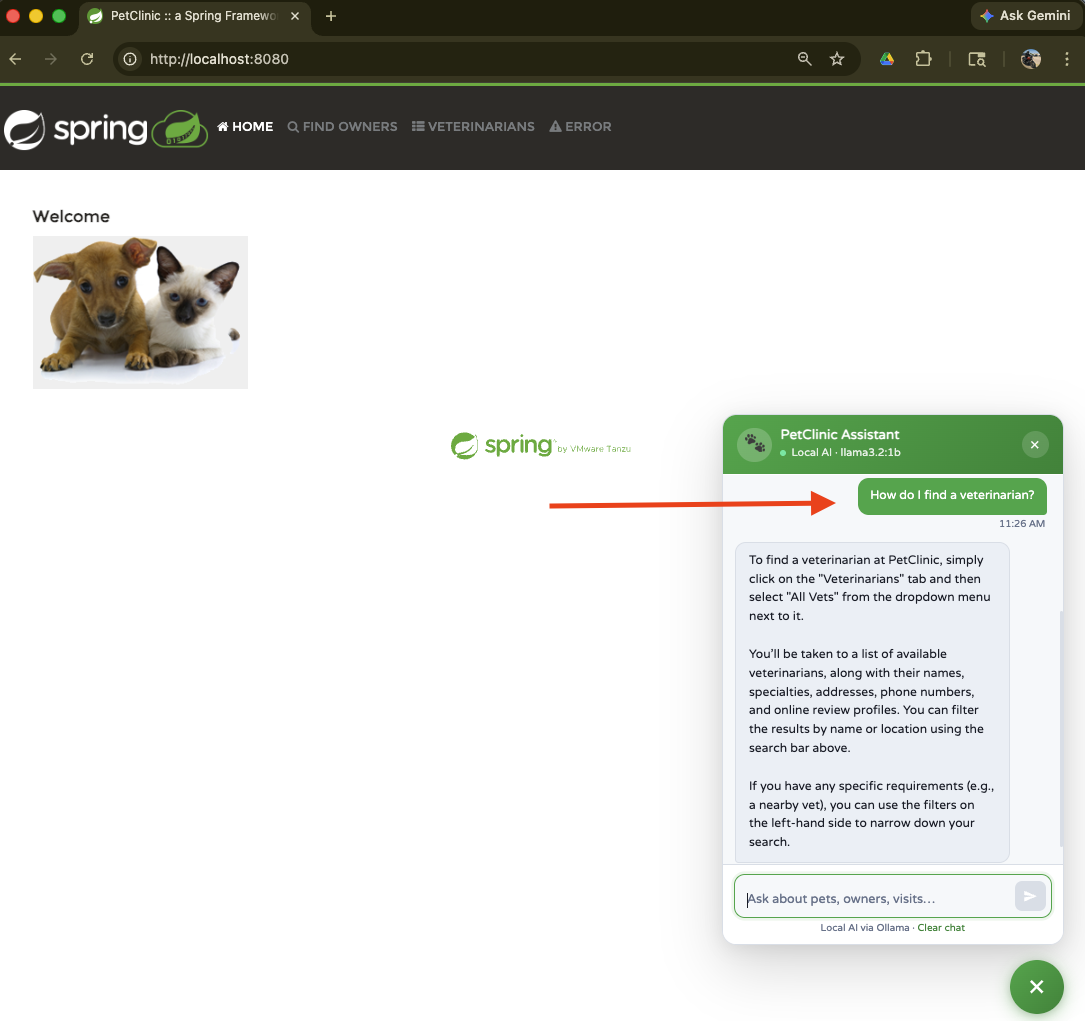
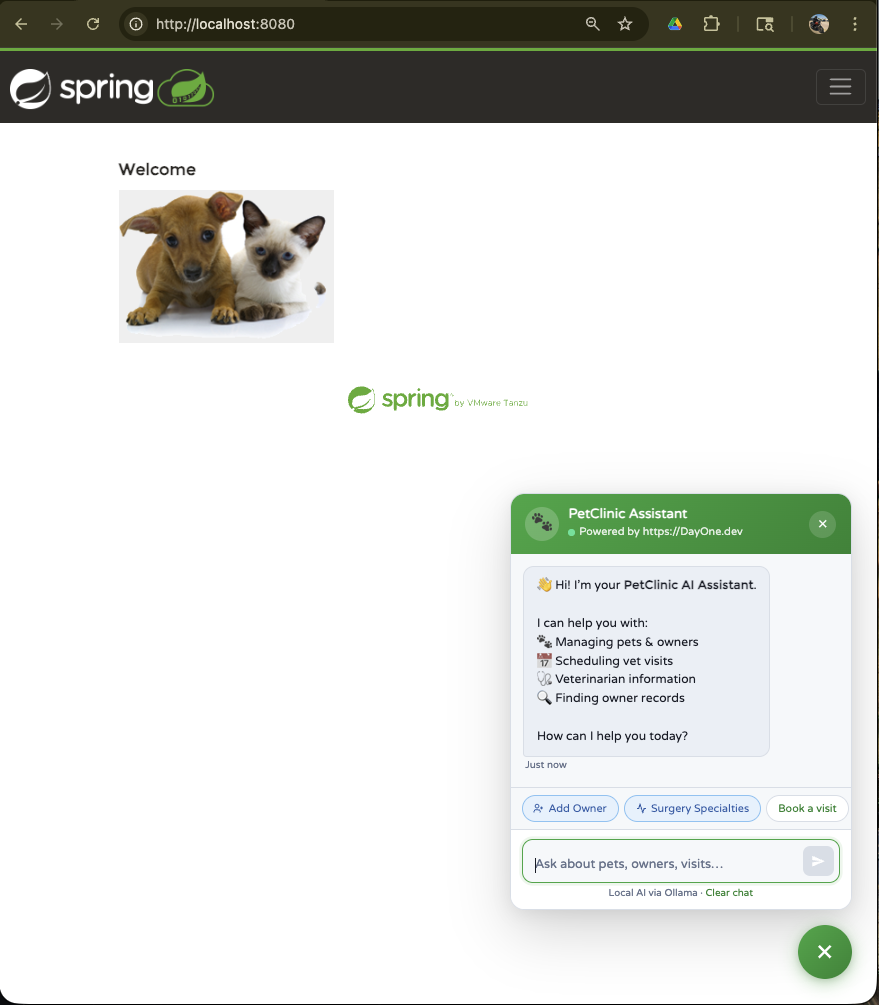
update chat window features

Changed region(s): [[0.0, 0.0, 1.0, 1.0], [0.3993, 0.3701, 0.5529, 0.4627], [0.0, 0.9871, 0.0307, 1.0]]

diff --git a/src/main/resources/templates/fragments/ai-chat.html b/src/main/resources/templates/fragments/ai-chat.html
@@ -1,9 +1,13 @@
+
 <!DOCTYPE html>
 <html xmlns:th="https://www.thymeleaf.org" lang="en">
 <body>
 
 <!--/*
-  @author Krishna Manchikalapudi
+  AI CHAT PANEL FRAGMENT – Spring PetClinic (Ollama edition)
+  Calls the secure backend proxy: /api/ai/chat  →  AiChatController.java  →  Ollama
+  Include in layout.html with:
+    <div th:replace="~{fragments/ai-chat :: aiChat}"></div>
 */-->
 <div th:fragment="aiChat">
 
@@ -60,9 +64,27 @@
 
     <!-- Suggestion chips -->
     <div class="aichat-chips" id="aichat-chips">
-      <button class="aichat-chip" data-msg="How do I add a new pet owner?">Add owner</button>
+      <!-- nav chips → open a page directly -->
+      <button class="aichat-chip aichat-chip-nav" data-href="/owners/new"
+              title="Open Add Owner form">
+        <svg viewBox="0 0 24 24" fill="none" stroke="currentColor" stroke-width="2.2">
+          <path d="M16 21v-2a4 4 0 0 0-4-4H6a4 4 0 0 0-4 4v2"/>
+          <circle cx="9" cy="7" r="4"/><line x1="19" y1="8" x2="19" y2="14"/>
+          <line x1="22" y1="11" x2="16" y2="11"/>
+        </svg>
+        Add Owner
+      </button>
+
+      <button class="aichat-chip aichat-chip-nav" data-href="/vets.html"
+              title="Browse Surgery Specialties">
+        <svg viewBox="0 0 24 24" fill="none" stroke="currentColor" stroke-width="2.2">
+          <path d="M22 12h-4l-3 9L9 3l-3 9H2"/>
+        </svg>
+        Surgery Specialties
+      </button>
+
+      <!-- chat chips → send a question to the AI -->
       <button class="aichat-chip" data-msg="How do I schedule a vet visit?">Book a visit</button>
-      <button class="aichat-chip" data-msg="How do I find a veterinarian?">Find a vet</button>
       <button class="aichat-chip" data-msg="What pet types are supported?">Pet types</button>
     </div>
 
@@ -162,6 +184,13 @@
       transition:all .15s;font-weight:500;
     }
     .aichat-chip:hover{background:var(--ac-green-lt);border-color:var(--ac-green);}
+    /* Nav chips — distinct teal-ish accent so users know they navigate */
+    .aichat-chip-nav{
+      background:#e8f4fd;border-color:#90cdf4;color:#2b6cb0;
+      display:inline-flex;align-items:center;gap:5px;
+    }
+    .aichat-chip-nav svg{width:12px;height:12px;flex-shrink:0;}
+    .aichat-chip-nav:hover{background:#bee3f8;border-color:#4299e1;color:#1a365d;}
     .aichat-input-area{padding:10px 12px 8px;background:var(--ac-bg);border-top:1px solid var(--ac-border);flex-shrink:0;}
     .aichat-input-wrap{
       display:flex;align-items:flex-end;gap:8px;background:var(--ac-surface);
@@ -219,7 +248,8 @@
       .then(data => {
         if (data.status === 'ok') {
           const name = data.model || 'Ollama';
-          modelLabel.textContent = 'Local AI · ' + name;
+          //modelLabel.textContent = 'Pet AI · ' + name;
+          modelLabel.textContent = 'Powered by https://DayOne.dev ';
         } else {
           setOffline('Ollama offline');
         }
@@ -265,8 +295,14 @@
     /* ── Suggestion chips ── */
     chips.querySelectorAll('.aichat-chip').forEach(b =>
       b.addEventListener('click', () => {
-        chips.style.display = 'none';
-        dispatch(b.dataset.msg);
+        if (b.dataset.href) {
+          /* Navigation chip — go straight to the page */
+          window.location.href = b.dataset.href;
+        } else {
+          /* Chat chip — send message to AI */
+          chips.style.display = 'none';
+          dispatch(b.dataset.msg);
+        }
       })
     );
 

diff --git a/KRISHNA/README.md b/KRISHNA/README.md
@@ -75,7 +75,7 @@ spring-petclinic/
 
 #### Start the app
 ```bash
-./KRISHNA/exec.sh run
+./KRISHNA/exec.sh
 ```
 ![Build run](./images/boot-run.png)
 
@@ -83,8 +83,10 @@ Open [http://localhost:8080](http://localhost:8080).
 The green 🐾 button appears bottom-right. The header shows the active model name.
 
 ![App home](./images/UI-home.png)
-![App home](./images/UI-home-chat.png)
-
+![App chat](./images/UI-home-chat.png)
+![App chat - vet visit](./images/UI-chat-vet-visit.png)
+![App chat - vets](./images/UI-chat-vets.png)
+![App chat - pet owner](./images/UI-new-owner.png)
 
 #### Stop the app
 ```bash
